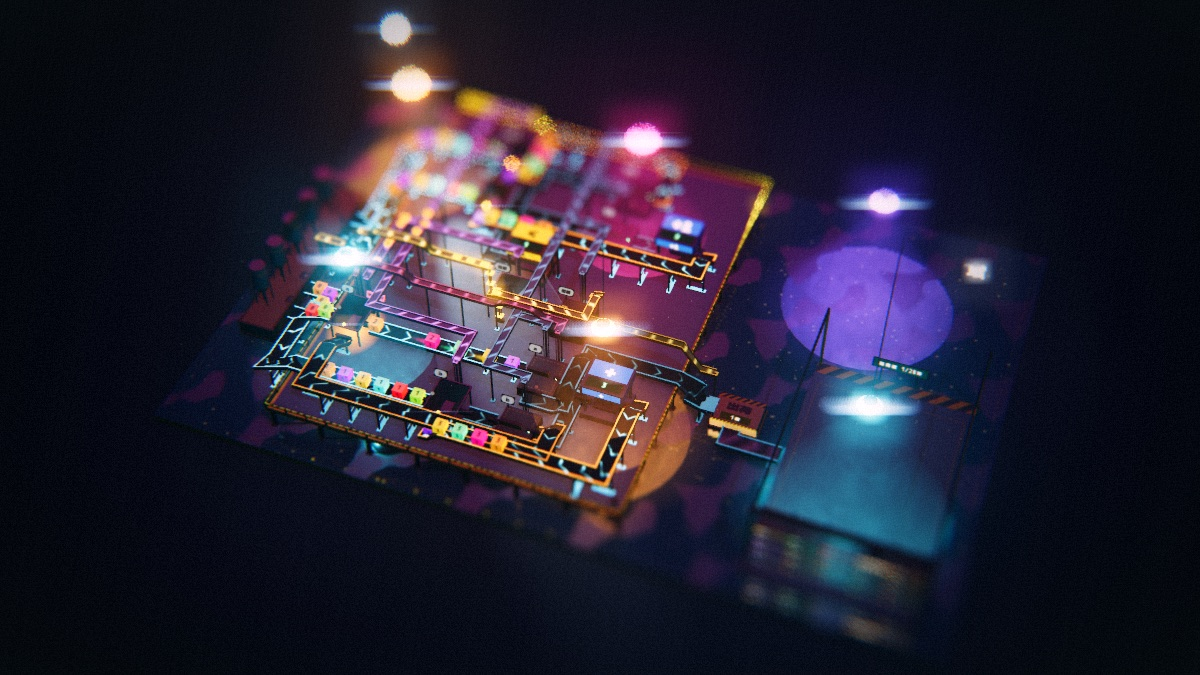
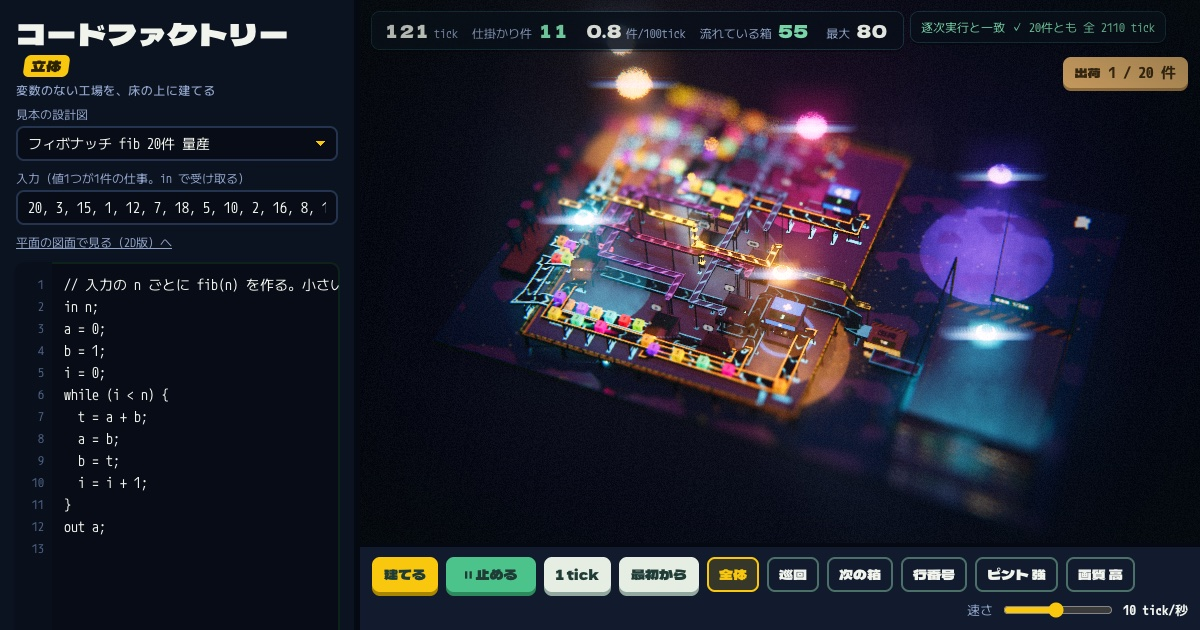
chore: use the screenshot with the code panel as the コードファクトリー thumbnail

diff --git a/app/components/Card.tsx b/app/components/Card.tsx
@@ -69,7 +69,7 @@ export const Card = ({ title, summary, href, date, image }: CardProps) => {
               src={image}
               alt=""
               width={1200}
-              height={675}
+              height={630}
               sizes="(max-width: 720px) 100vw, 360px"
               className={css`
                 display: block;
